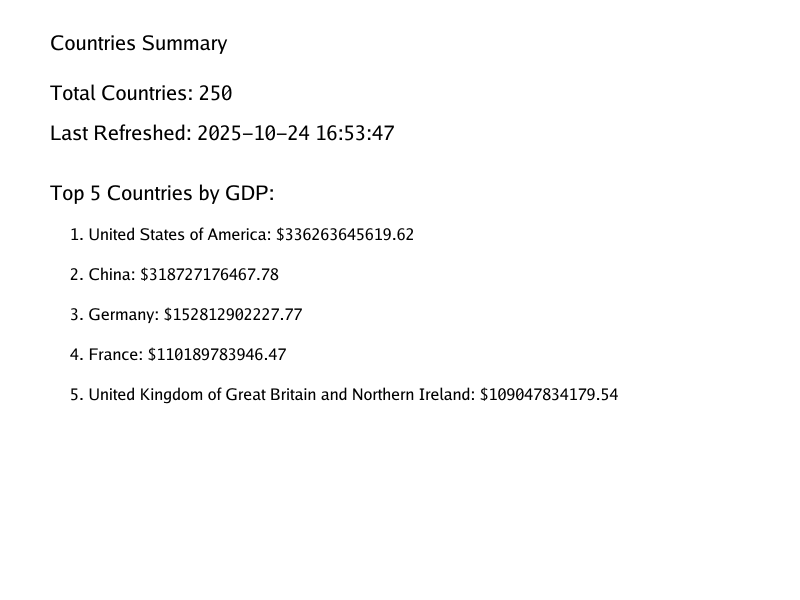
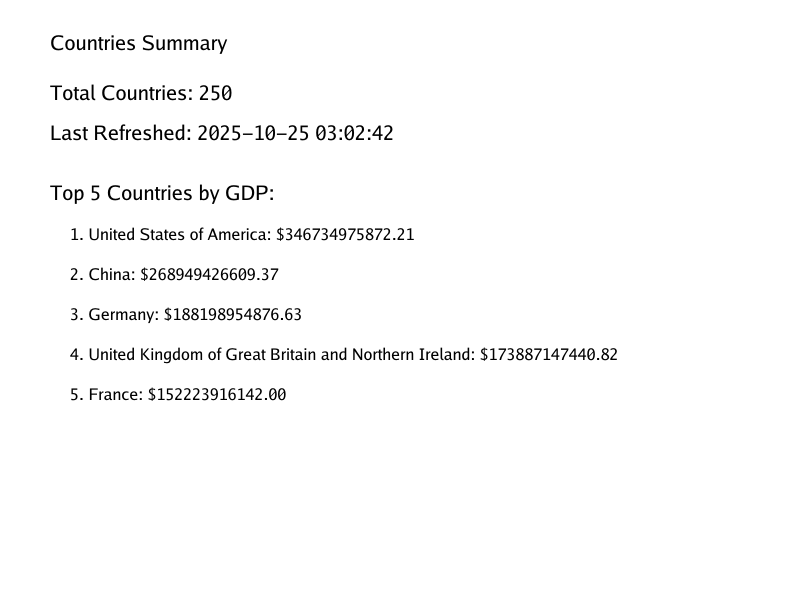
update routes endpoint

diff --git a/routes/routes.go b/routes/routes.go
@@ -15,19 +15,16 @@ func SetupRoutes() *gin.Engine {
 	countryController := controllers.NewCountryController()
 	statusController := controllers.NewStatusController()
 
-	api := router.Group("/api")
+	countries := router.Group("/countries")
 	{
-		countries := api.Group("/countries")
-		{
-			countries.POST("/refresh", countryController.RefreshCountries)
-			countries.GET("", countryController.GetAllCountries)
-			countries.GET("/image", countryController.GetCountriesImage)
-			countries.GET("/:name", countryController.GetCountryByName)
-			countries.DELETE("/:name", countryController.DeleteCountry)
-		}
-
-		api.GET("/status", statusController.GetStatus)
+		countries.POST("/refresh", countryController.RefreshCountries)
+		countries.GET("", countryController.GetAllCountries)
+		countries.GET("/image", countryController.GetCountriesImage)
+		countries.GET("/:name", countryController.GetCountryByName)
+		countries.DELETE("/:name", countryController.DeleteCountry)
 	}
+
+	router.GET("/status", statusController.GetStatus)
 
 	router.GET("/health", statusController.HealthCheck)
 
